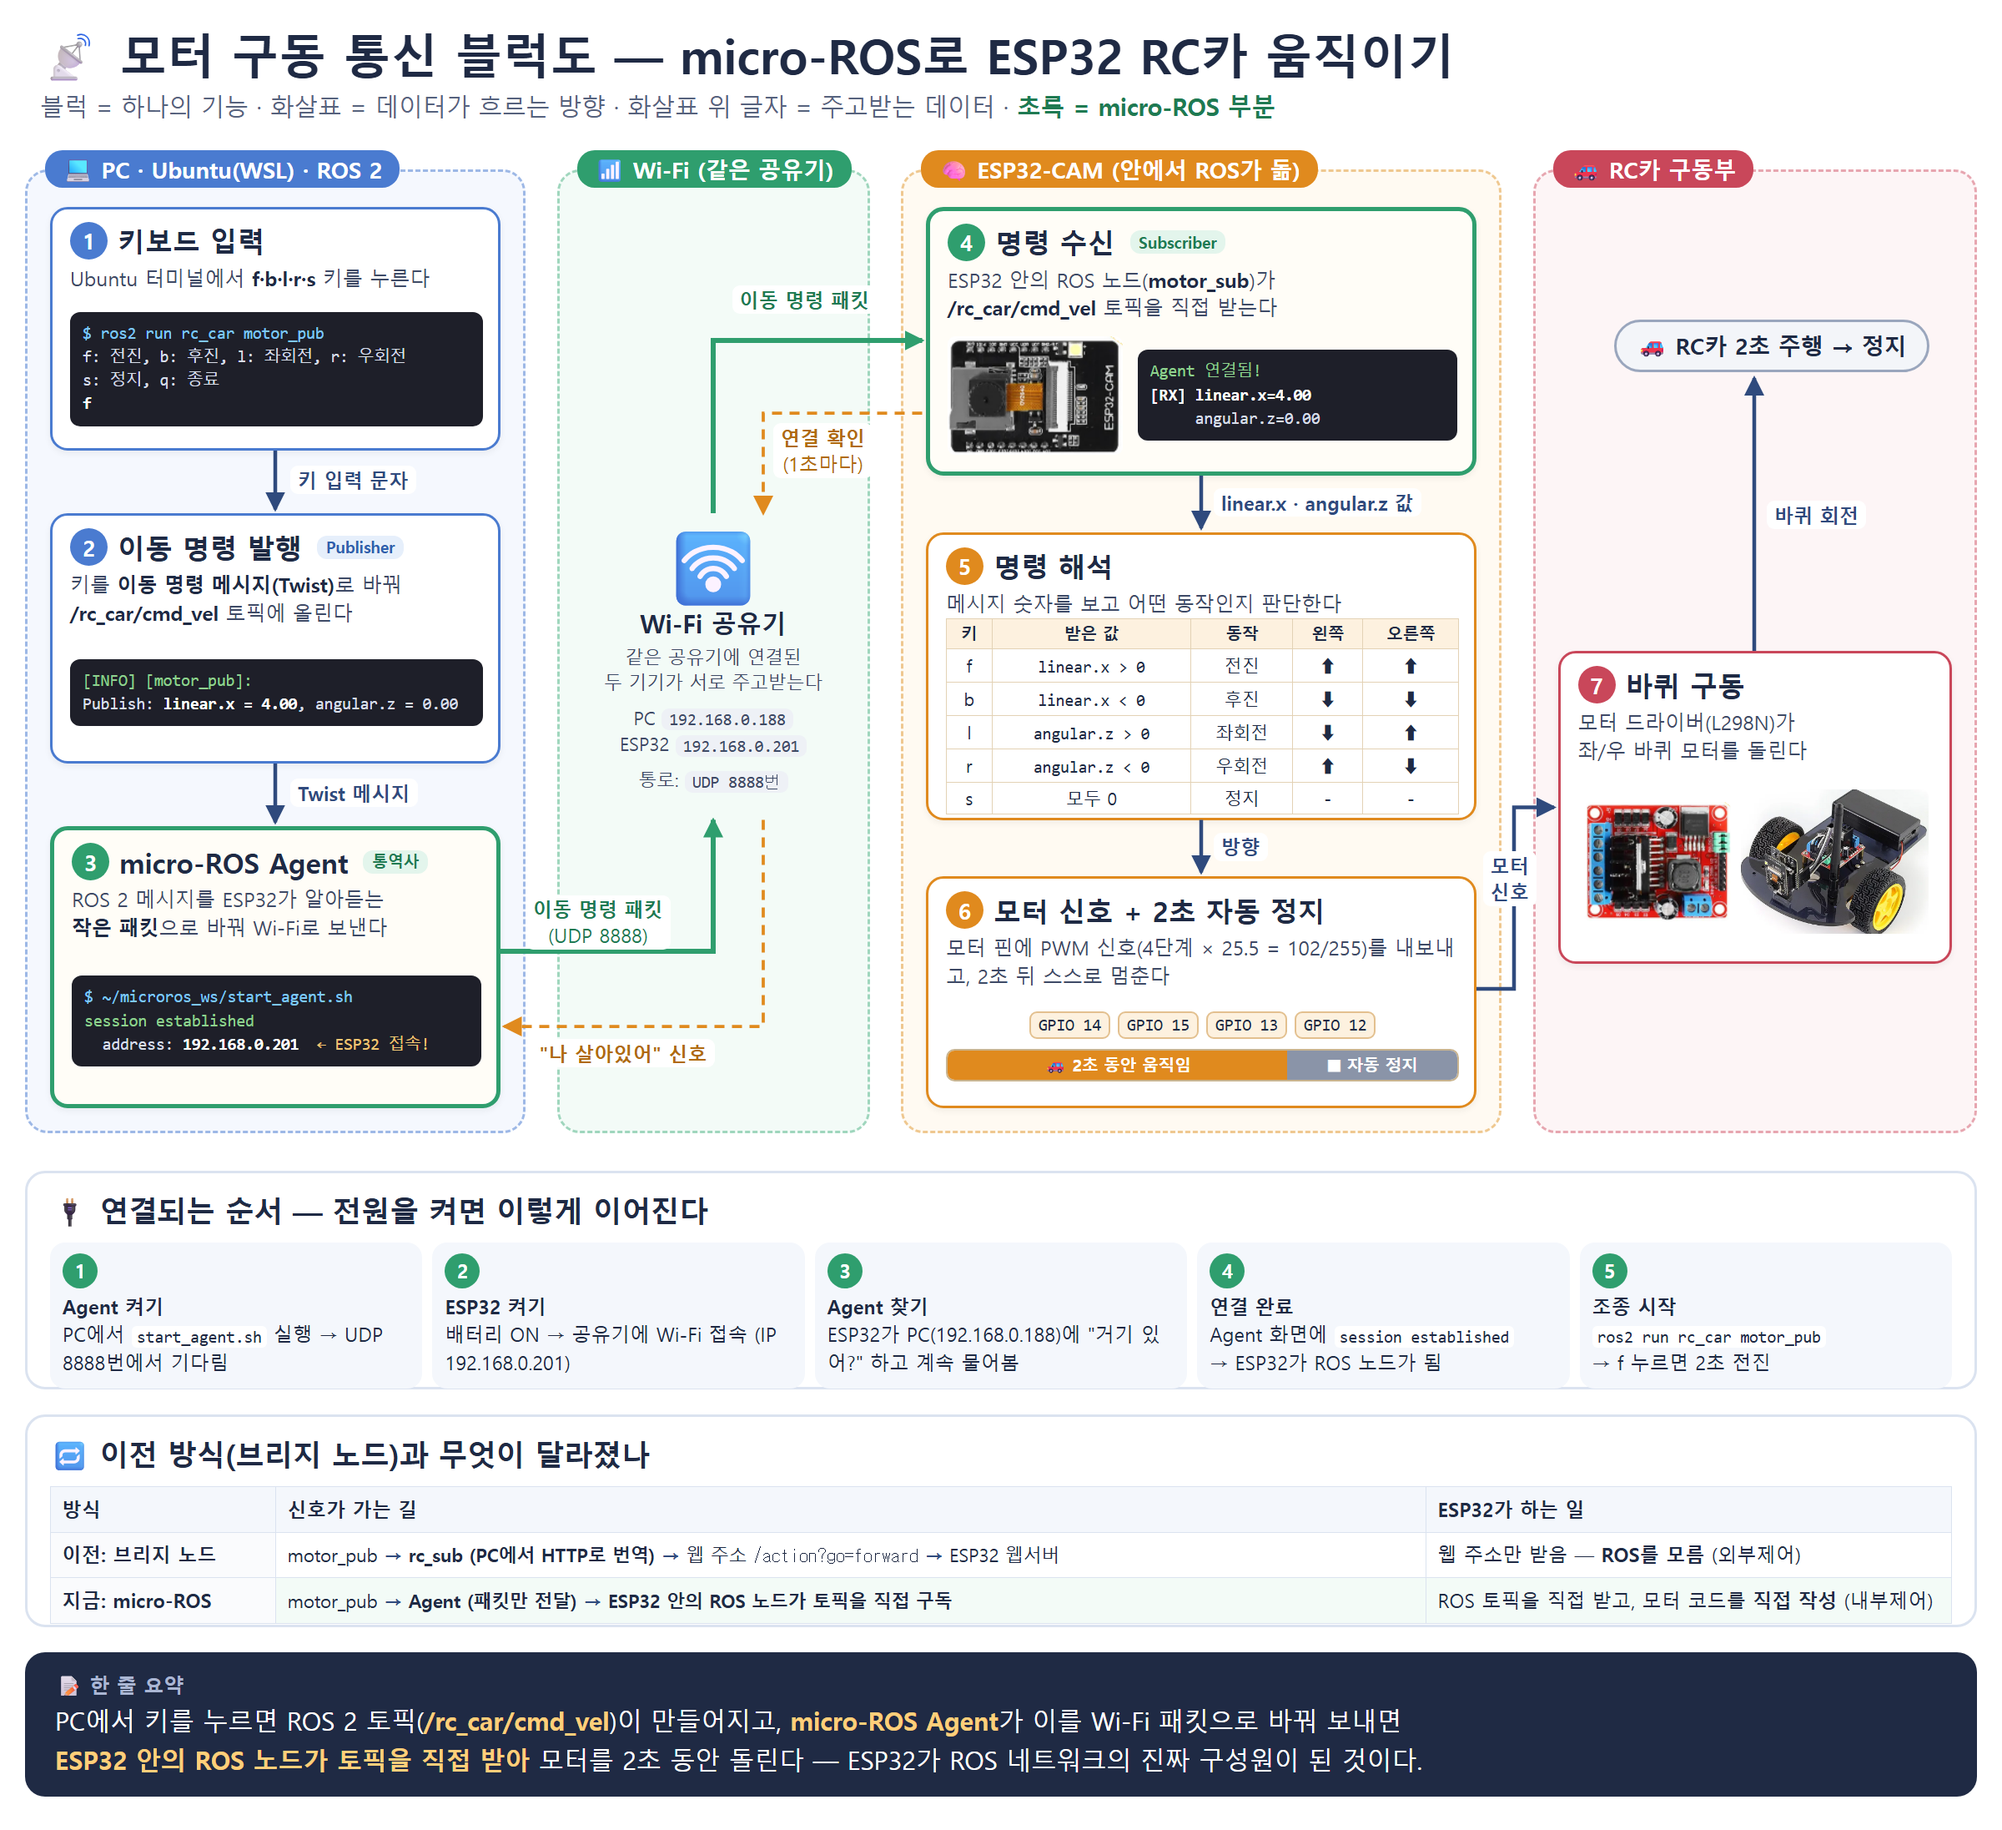
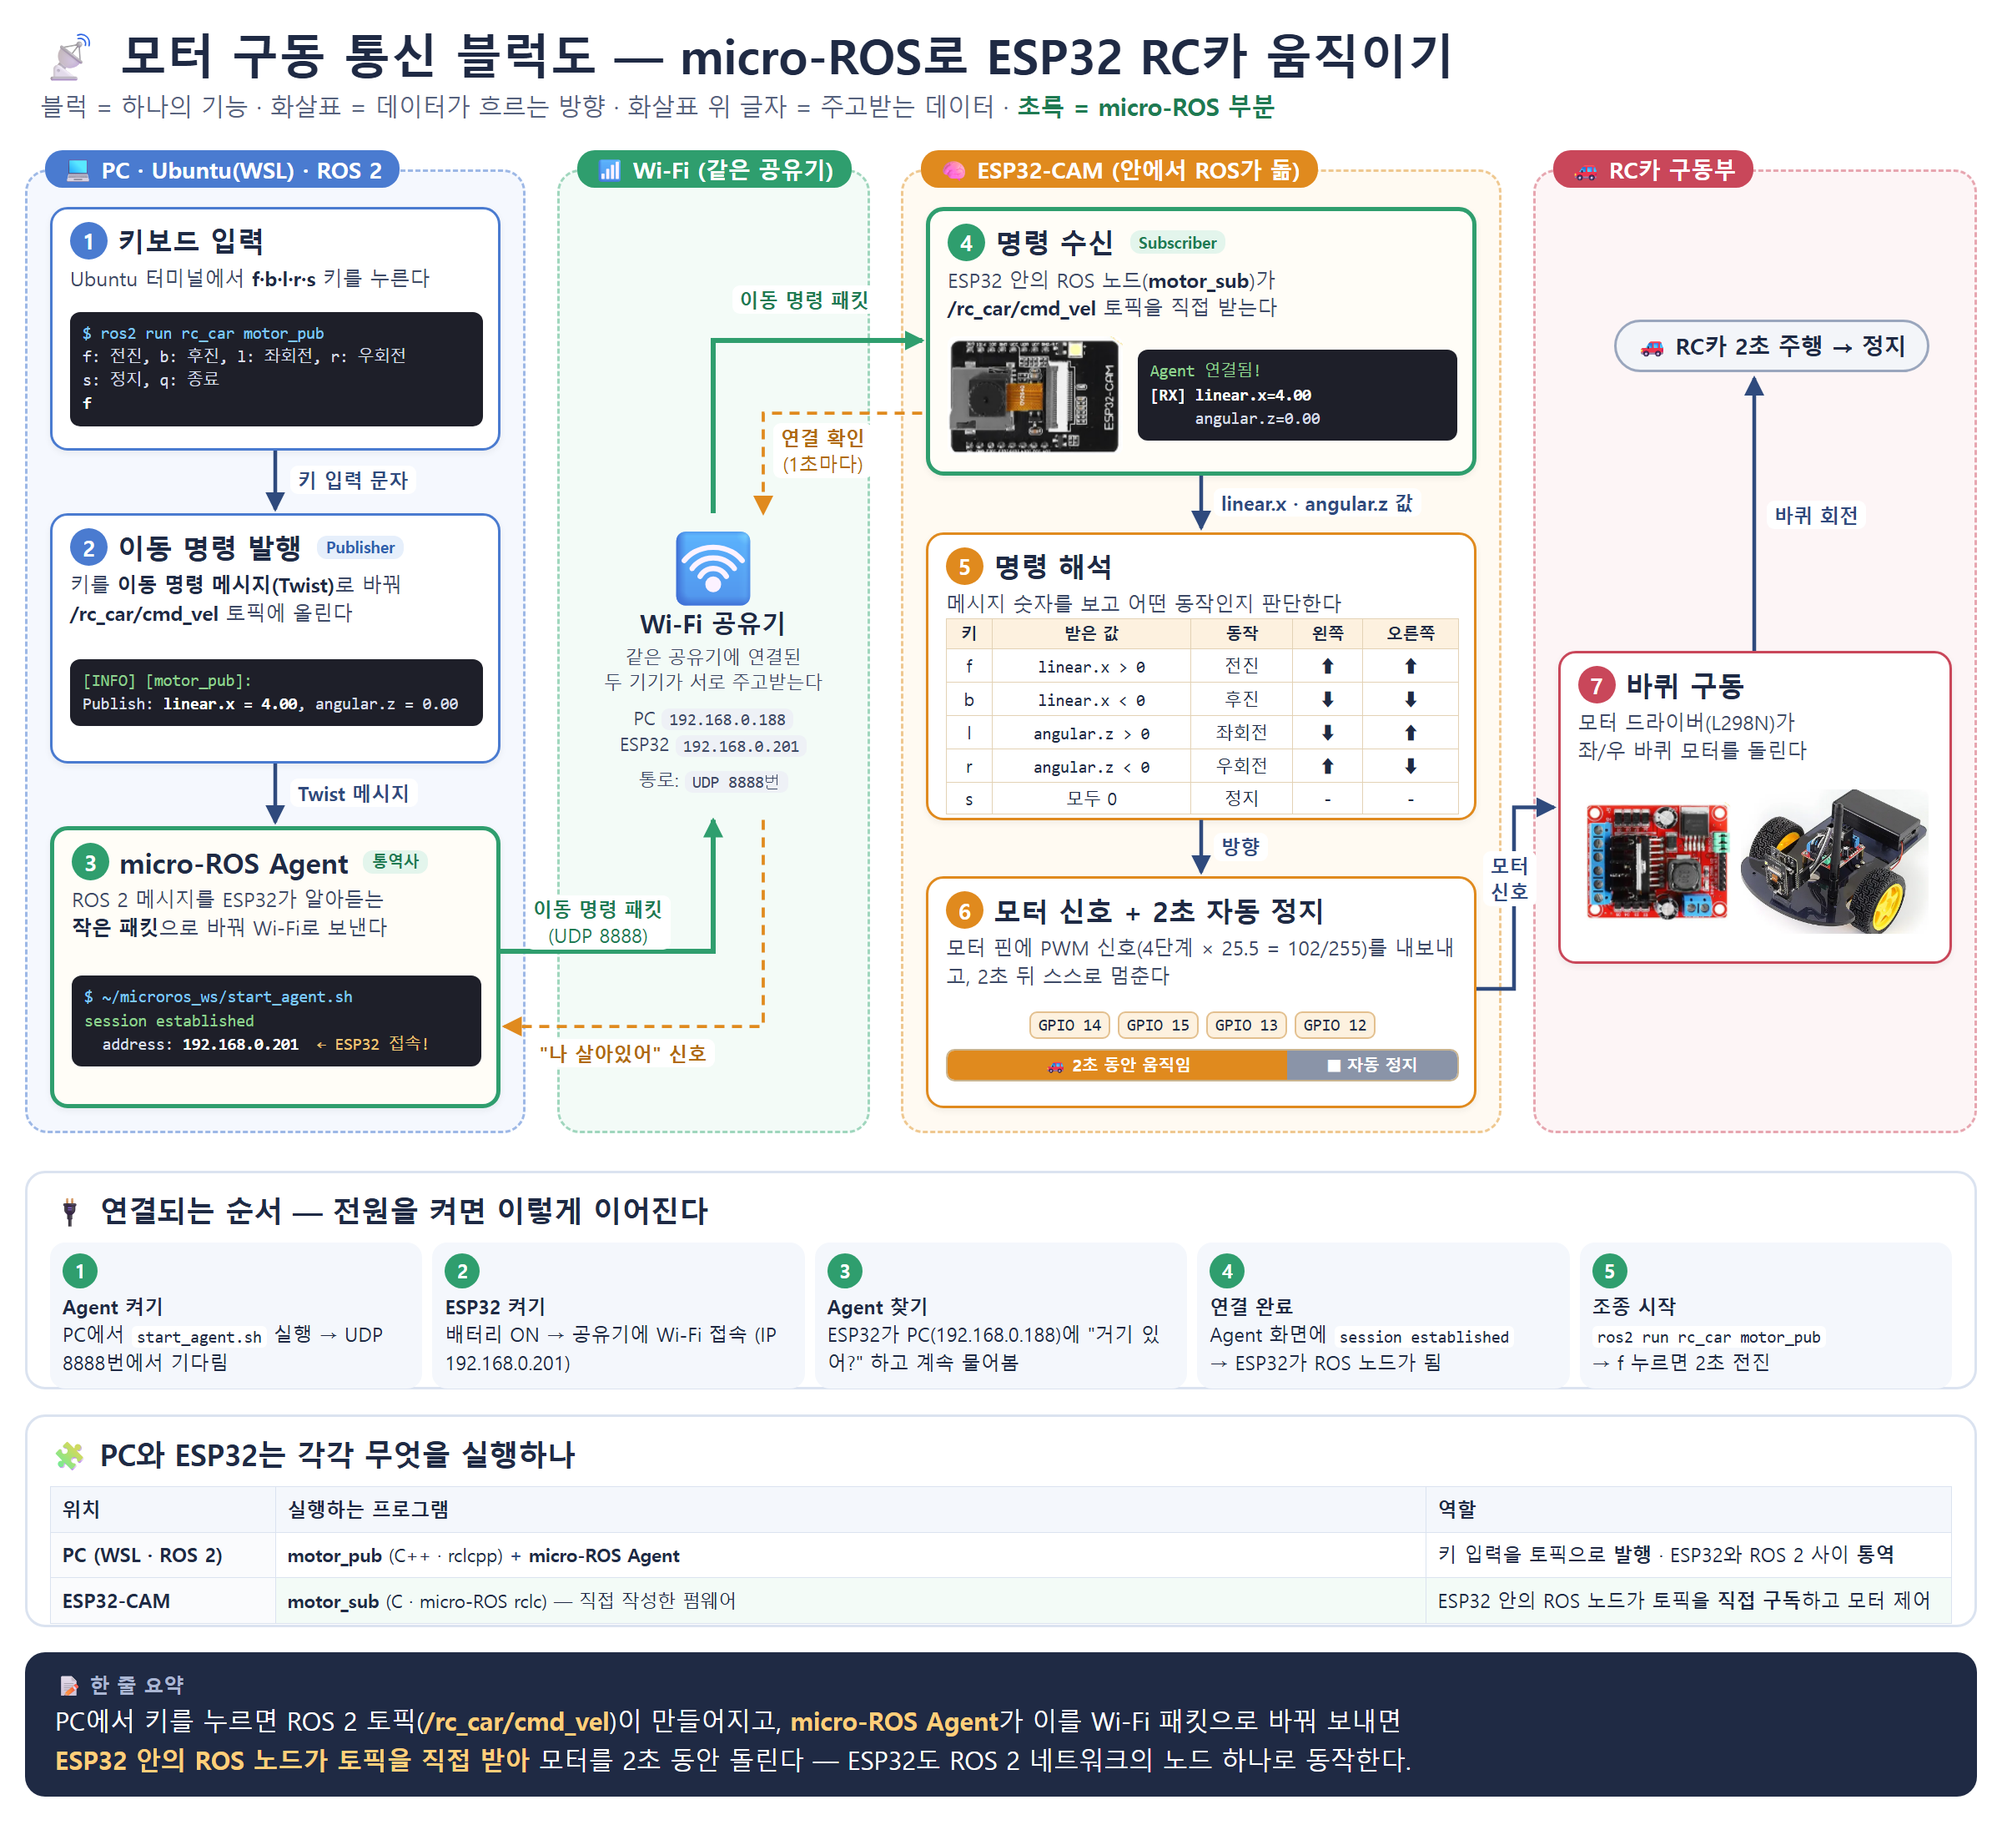
11_30: 브리지 방식 비교 제거, 처음부터 micro-ROS 기준으로 설명 수정

diff --git a/11_30/README.md b/11_30/README.md
@@ -8,7 +8,7 @@
 ## 목차
 
 1. [한눈에 보기](#1-한눈에-보기)
-2. [이전 방식과 지금 방식: 왜 micro-ROS로 바꿨나](#2-이전-방식과-지금-방식-왜-micro-ros로-바꿨나)
+2. [왜 micro-ROS를 사용했나](#2-왜-micro-ros를-사용했나)
 3. [시스템 구성 (통신 블럭도)](#3-시스템-구성-통신-블럭도)
 4. [명령 하나가 바퀴까지 가는 과정](#4-명령-하나가-바퀴까지-가는-과정)
 5. [소스코드 설명](#5-소스코드-설명)
@@ -43,19 +43,21 @@
 
 ---
 
-## 2. 이전 방식과 지금 방식: 왜 micro-ROS로 바꿨나
+## 2. 왜 micro-ROS를 사용했나
 
-처음에는 **브리지 노드 방식**으로 만들었습니다. 그런데 이 방식에서는 ESP32가 ROS를 전혀 모릅니다.
+이 프로젝트의 목표는 **ROS 2로 실제 하드웨어(RC카)를 제어하는 것**입니다. 그래서 처음부터 **ESP32 보드 안에서도 ROS 2가 돌아가도록** micro-ROS를 사용했습니다.
 
-| 방식 | 신호가 가는 길 | ESP32가 하는 일 |
+| 위치 | 실행하는 프로그램 | 역할 |
 |---|---|---|
-| 이전: 브리지 노드 | `rc_pub`, `rc_sub`(PC에서 HTTP 주소로 번역), `GET /action?go=forward`, ESP32 웹서버 순서 | 제조사 예제 웹서버가 **웹 주소만** 받음. **ROS와 무관함** |
-| **지금: micro-ROS** | `motor_pub`, **micro-ROS Agent**(패킷만 전달), **ESP32 안의 ROS 노드가 토픽을 직접 구독** | ROS 토픽을 직접 받고, 모터 제어 코드도 **직접 작성** |
+| PC (WSL, ROS 2) | `motor_pub` (C++, rclcpp) | 키 입력을 `/rc_car/cmd_vel` 토픽으로 **발행** |
+| PC (WSL, ROS 2) | `micro-ROS Agent` | PC의 ROS 2와 ESP32 사이에서 메시지를 **통역** |
+| ESP32-CAM | `motor_sub` (C, micro-ROS rclc). 직접 작성한 펌웨어 | 토픽을 **직접 구독**하고 모터 제어 |
 
-**바꾼 이유**
-- 브리지 방식은 결국 "PC의 ROS 프로그램이 웹 주소를 대신 눌러 주는 것"에 불과합니다. ROS는 PC 안에서만 돌아가고, RC카 쪽은 제조사 예제를 그대로 썼습니다.
-- micro-ROS를 쓰면 ESP32 자체가 **ROS 2 네트워크의 노드 하나**가 됩니다. 그래서 PC에서 `ros2 node list`를 치면 ESP32의 `motor_sub` 노드가 보입니다.
-- 펌웨어(ESP32에서 돌아가는 프로그램)를 **처음부터 직접 작성**했기 때문에, 명령을 받는 순간부터 모터에 전기 신호를 보내기까지 모든 과정을 직접 이해하고 고칠 수 있습니다.
+**micro-ROS를 쓰면 좋은 점**
+- **ESP32 자체가 ROS 2 노드 하나가 됩니다.** PC에서 `ros2 node list`를 치면 ESP32의 `motor_sub` 노드가 PC 노드와 똑같이 보입니다.
+- **PC와 ESP32가 같은 방식(토픽 발행과 구독)으로 대화합니다.** 수업에서 배운 Publisher/Subscriber 구조가 PC 안에서 끝나지 않고 **보드까지 그대로 이어집니다.**
+- 펌웨어(ESP32에서 돌아가는 프로그램)를 **직접 작성했기 때문에**, 명령을 받는 순간부터 모터에 전기 신호를 보내기까지 모든 과정을 이해하고 고칠 수 있습니다.
+- 나중에 LED, 카메라, 센서를 붙일 때도 **토픽을 하나씩 추가하기만** 하면 됩니다.
 
 ---
 
@@ -261,15 +263,14 @@ ros2 topic info /rc_car/cmd_vel --no-daemon   # Publisher 1, Subscriber 1
 
 | # | 문제 | 원인 | 해결 |
 |---|---|---|---|
-| 1 | 브리지 방식에서는 ESP32가 ROS를 모름 | ESP32가 제조사 예제 웹서버만 실행하고, ROS는 PC에만 있음 | **micro-ROS로 전환**해서 ESP32 안에서 ROS 노드 실행 |
-| 2 | WSL 안의 Agent에 ESP32가 접속하지 못함 | WSL2는 기본(NAT 모드)에서 PC와 다른 내부 IP를 써서, 공유기에 있는 ESP32가 WSL에 닿지 못함 | WSL을 **mirrored 네트워크 모드**로 바꿔 WSL이 PC와 같은 IP를 쓰게 함 |
-| 3 | mirrored 모드에서 `ros2 node list` 같은 명령이 멈춤 | `ros2 daemon`(백그라운드 도우미)이 mirrored 모드에서 응답하지 않음 | 명령 뒤에 **`--no-daemon`**을 붙여 실행 |
-| 4 | Agent 설치 스크립트 실패 | 관리자 권한(sudo)이 없고 rosdep이 초기화되지 않음 | Agent 소스를 받아 **`colcon build`로 직접 빌드** |
-| 5 | ESP32 컴파일 실패 | Windows 경로 길이 제한(260자): 바탕화면 아래 폴더에서는 micro-ROS 헤더 경로가 너무 길어짐 | `C:\Users\user\mros`처럼 **짧은 경로**에서 컴파일 |
-| 6 | 코드를 고칠 때마다 차에서 USB를 꽂아야 함 | | **OTA**를 넣고 파티션을 `min_spiffs`로 바꿔 Wi-Fi로 업로드 |
-| 7 | OTA 업로드 중 "Listen Failed" | 직전 업로드가 쓰던 포트(3233)가 아직 열려 있음 | 몇 초 기다린 뒤 다시 시도 |
-| 8 | 통신이 끊기면 차가 마지막 명령대로 계속 달릴 위험 | 정지 명령이 도착하지 않을 수 있음 | **2초 자동 정지**와 **연결이 끊기면 즉시 정지**를 추가 |
-| 9 | 속도가 고정돼 있음 | 처음에는 PWM 170으로 고정 | 메시지 값에 **속도 단계**를 실어 보내도록 바꿈 (`+`/`−`, 10단계) |
+| 1 | WSL 안의 Agent에 ESP32가 접속하지 못함 | WSL2는 기본(NAT 모드)에서 PC와 다른 내부 IP를 써서, 공유기에 있는 ESP32가 WSL에 닿지 못함 | WSL을 **mirrored 네트워크 모드**로 바꿔 WSL이 PC와 같은 IP를 쓰게 함 |
+| 2 | mirrored 모드에서 `ros2 node list` 같은 명령이 멈춤 | `ros2 daemon`(백그라운드 도우미)이 mirrored 모드에서 응답하지 않음 | 명령 뒤에 **`--no-daemon`**을 붙여 실행 |
+| 3 | Agent 설치 스크립트 실패 | 관리자 권한(sudo)이 없고 rosdep이 초기화되지 않음 | Agent 소스를 받아 **`colcon build`로 직접 빌드** |
+| 4 | ESP32 컴파일 실패 | Windows 경로 길이 제한(260자): 바탕화면 아래 폴더에서는 micro-ROS 헤더 경로가 너무 길어짐 | `C:\Users\user\mros`처럼 **짧은 경로**에서 컴파일 |
+| 5 | 코드를 고칠 때마다 차에서 USB를 꽂아야 함 | | **OTA**를 넣고 파티션을 `min_spiffs`로 바꿔 Wi-Fi로 업로드 |
+| 6 | OTA 업로드 중 "Listen Failed" | 직전 업로드가 쓰던 포트(3233)가 아직 열려 있음 | 몇 초 기다린 뒤 다시 시도 |
+| 7 | 통신이 끊기면 차가 마지막 명령대로 계속 달릴 위험 | 정지 명령이 도착하지 않을 수 있음 | **2초 자동 정지**와 **연결이 끊기면 즉시 정지**를 추가 |
+| 8 | 속도가 고정돼 있음 | 처음에는 PWM 170으로 고정 | 메시지 값에 **속도 단계**를 실어 보내도록 바꿈 (`+`/`−`, 10단계) |
 
 ---
 
